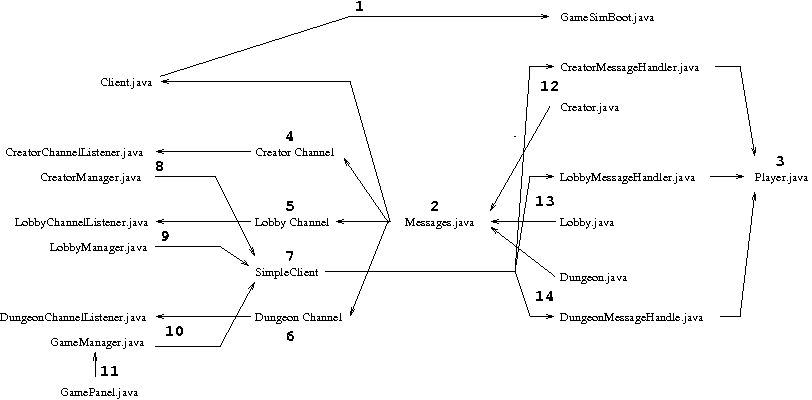
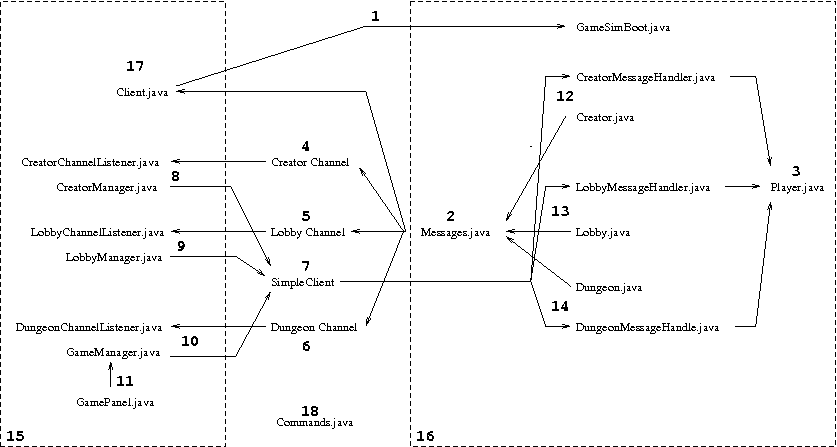
Minor website improvements and design doc additions
M    www/images/communication_diagram.png
M    www/images/communication_diagram.fig

- Added additional labels and arrows for how the client and server
  interact

M    www/index.html

- Fixed minor spacing issue

M    www/faq.html

- Added new question related to maven build errors

M    www/design.html

- Added a preamble to the giant communication diagram outlining the
  major goals and design decisions.  This is intended to make the
  diagram easier and really stress why the various designs were
  decided upon.

diff --git a/www/design.html b/www/design.html
@@ -34,6 +34,41 @@
 
   
   <h3>Client-Server Communication</h3>
+
+
+  <p>We designed client-server communication with the idea of game
+  states in mind.  Currently, a client can be in one of three game
+  states:
+    <ol>
+      <li>Creating a new character to play</li>
+      <li>In the lobby, deciding which dungeon to explore</li>
+      <li>In a dungeon, playing the game</li>
+    </ol>
+  For each of these game states, we have the following framework in
+  place.  The client will be connected to a channel used only by the
+  server to communicate updates to all player in that game state.  All
+  direct messages sent from the client to the server are handled by
+  game-state-specific classes that we refer to
+  as <tt>MessageHandler</tt>s.  The client receives all direct
+  server-to-client messages in its main class as well. </p>
+
+  <p>We use this model for several reasons.  Most importantly, we use
+  channels for broadcasting information to reduce the communication
+  overhead.  Sending the same message to all
+  player's <tt>ClientSession</tt> instances has huge overhead is not
+  the correct way to broadcast information in the Project Darkstar
+  model.  A good example of when to use the channels is that we
+  broadcast movement updates to all the players on a level.  Each
+  dungeon level has its own channel that it uses to send updates for
+  all the players connected.  Since all the players need to receive
+  the same information, channels are ideal for this communication.</p>
+
+  <p>However, we do send direct messages to the client using
+  the <tt>ClientSession</tt> when the server needs to send information
+  that only pertains to that one client instance.  A good example of
+  this is when the client is first creating a character.  No other
+  clients need to know about the state of the player's character, and
+  so this client-server communication is done using direct messages.</p>
   
   <p>The following diagram illustrates the core communication between
     the client and the server.  Each of the various numbers represents
@@ -91,21 +126,21 @@
     be broadcasted.  The Hack <tt>Client</tt> processes these messages
     as they are received.</li>
 
-    <li>The <tt>CreatorManager</tt> and <CreatorChannelListener</tt>
+    <li>The <tt>CreatorManager</tt> and <tt>CreatorChannelListener</tt>
     contain all the character creation logic on the client side.  The
     former sends all of the outgoing messages, while the latter is
     reponsible for processing all of the broadcasted updates on the
     creator channel.</li>
 
 
-    <li>The <tt>LobbyManager</tt> and <LobbyChannelListener</tt>
+    <li>The <tt>LobbyManager</tt> and <tt>LobbyChannelListener</tt>
     contain all the game-choosing logic on the client side.  The
     former sends all of the outgoing messages regarding which dungeon
     a client will join, while the latter is reponsible for processing
     all of the broadcasted updates on the lobby channel.</li>
 
 
-    <li>The <tt>GameManager</tt> and <DungeonChannelListener</tt>
+    <li>The <tt>GameManager</tt> and <tt>DungeonChannelListener</tt>
     contain all the dungeon-related logic on the client side, such as
     moving.  The former sends all of the outgoing messages, while the
     latter is reponsible for processing all of the broadcasted updates
@@ -135,6 +170,38 @@
     sent to the server on the dungeon channel.  When a player dies in
     a dungeon, they are sent back to the lobby state of the game by
     the <tt>Dungeon</tt>.</li>
+
+    <li>These classes contain all of the client side message handling
+    and generation.  Outgoing messages may originate from any class
+    with an arrow pointing out of the client box.  Likewise, any arrow
+    coming into the box denotes which class handles that message.</li>
+
+    <li>These classes contain all of the server side message handling.
+    All outgoing messages on the server-side, both
+    to <tt>Channel</tt>s and <tt>ClientSession</tt>s will go through
+    the <tt>Messages</tt> class.</li>
+
+    <li>The <tt>Client</tt> class is responsible for handling all of
+    messages sent from the server directly to
+    the <tt>ClientSession</tt>.  The <tt>Client</tt> logic will handle
+    all types of commands for all the game states.  This behavior
+    differs from the client channel listeners, which only handle
+    messages pertaining to a specific game state.
+    (e.g. the <tt>DungeonChannelListener</tt> only handles
+    dungeon-related messages).</li>
+
+    <li>The <tt>Commands</tt> class does not directly take part in the
+    communications process, but plays a very important role in what is
+    communicated.  The <tt>Commands.Command</tt> </tt>enum</tt>
+    contains all of the valid commands for the client and server, and
+    also provides methods for encoding these commands into
+    network-transmittable <tt>int</tt>s, and for decoding them back
+    into <tt>Commands.Command</tt> objects.  This has two major
+    advantages.  First, we are able to use enums in both the client
+    and server, which makes the code much cleaner and greatly aids in
+    debugging communication.  Secondly, since we transmit the commands
+    as <tt>int</tt> instead of Java objects, we allow for non-Java
+    clients.</li>
 
   </ol>
 

diff --git a/www/faq.html b/www/faq.html
@@ -208,6 +208,42 @@
 	</td>
       </tr>
 
+      <tr>
+	<td width="25"></td>
+	<td align="left">
+	  
+	  <p style="text-indent:-30px;"> <b>Maven says it's unable to download the artifact?</b><p/>
+	    
+	  <p> If you're seeing something like the following error:
+	    <br><br>
+	    <tt>[INFO] ------------------------------------------------------------------------<br>
+	      [ERROR] BUILD ERROR<br>
+	      [INFO] ------------------------------------------------------------------------<br>
+	      [INFO] Failed to resolve artifact.<br>
+	      <br>
+	      GroupId: com.projectdarkstar.example.hack<br>
+	      ArtifactId: hack<br>
+	      Version: 1.0-SNAPSHOT<br>
+	      <br>
+	      Reason: Unable to download the artifact from any repository<br>
+	      <br>
+	      com.projectdarkstar.example.hack:hack:pom:1.0-SNAPSHOT<br>
+	      <br>
+	      from the specified remote repositories:<br>
+	      central (http://repo1.maven.org/maven2),<br>
+	      java.net (http://download.java.net/maven/2/),<br>
+	      games-darkstar.snapshots (https://games-darkstar.dev.java.net/nonav/snapshots)</tt><br>
+	    <br>
+	    Then it might be due an old version of maven.  We've seen
+	    this issue with the default version of Maven that ships
+	    with OS X.  Try downloading the latest version and then
+	    try to build it.  If this doesn't work, <i>please</i>
+	    email us about the issue and attach the error you're
+	    seeing, as we want the code to "just work" right out of
+	    the box.</p>	 
+	</td>
+      </tr>
+
 
       <tr>
 	<td width="25"></td>
@@ -365,7 +401,7 @@
 	  
 	</td>
       </tr>
-      
+
     </table>
 
 

diff --git a/www/index.html b/www/index.html
@@ -30,7 +30,7 @@
   <a href="http://creativecommons.org/licenses/publicdomain/">Creative Commons Public Domain</a>
   and is available for unrestricted use.</p>
 
-<h4>Get involved with the project today:</h4>
+<h3>Get involved with the project today:</h3>
 
   <table cellpadding="0" cellspacing="10" border="0" width="100%">
 
@@ -60,16 +60,16 @@
       </td>
     </tr>
 
-    <tr><td colspan="2">&nbsp</td></tr>
-
     <tr>
       <td width="25"></td>
       <td align="left">
 
 	<p style="text-indent:
-	-30px;"><img src="images/wizard.png">&nbsp;<b>Browse
-	the <a href="source/browse/darkstar-hack">source code</a> or
-	check out your own copy</b></p>
+	-30px;"><img src="images/wizard.png">&nbsp;<b> 
+	    <a href="source/browse/darkstar-hack">Browse</a>
+	    the source code or
+	    <a href="faq.html#building">check out</a> your own
+	    copy</b></p>
 
 	<p>Hack is a open source game and you can freely browse the
 	  <a href="http://fisheye4.atlassian.com/browse/darkstar-hack">Subversion
@@ -80,9 +80,6 @@
 	start developing their own games later!</p>
       </td>
     </tr>
-
-    <tr><td colspan="2">&nbsp</td></tr>
-
 
     <tr>
       <td width="25"></td>
@@ -104,7 +101,6 @@
       </td>
     </tr>
     
-    <tr><td colspan="2">&nbsp</td></tr>
 
     <tr>
       <td width="25"></td>
